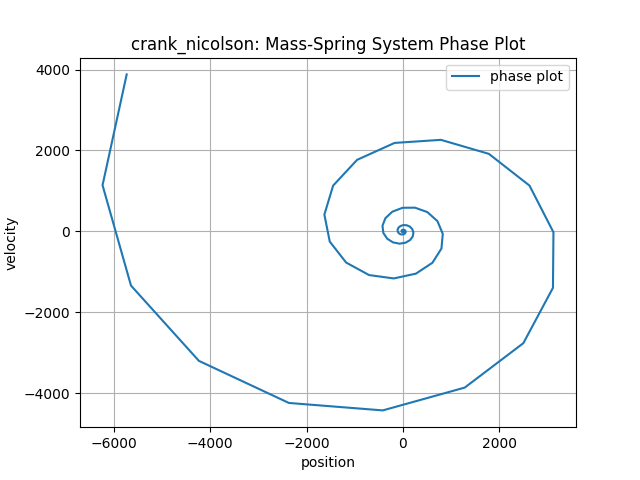
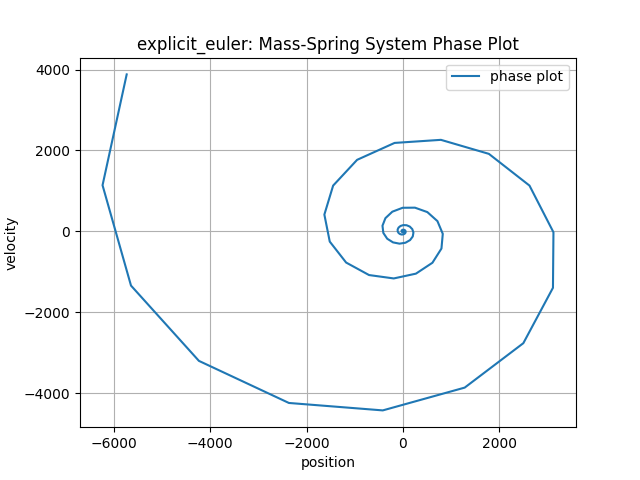
fixed plot title for explicit euler with larger endtimes

Changed region(s): [[0.2188, 0.0625, 0.8125, 0.125]]

diff --git a/demos/plotmassspring.py b/demos/plotmassspring.py
@@ -60,7 +60,7 @@ for endtime in explicit_euler_larger_endtimes:
     plt.plot(data[:,0], data[:,2], label='velocity')
     plt.xlabel('time')
     plt.ylabel('value')
-    plt.title(f'{method}: Mass-Spring System Time Evolution')
+    plt.title("explicit_euler: Mass-Spring System Time Evolution")
     plt.legend()
     plt.grid()
     plt.savefig(f"{folder}/explicit_euler_time_plot_endtime_{endtime}.png")
@@ -69,7 +69,7 @@ for endtime in explicit_euler_larger_endtimes:
     plt.plot(data[:,1], data[:,2], label='phase plot')
     plt.xlabel('position')
     plt.ylabel('velocity')
-    plt.title(f'{method}: Mass-Spring System Phase Plot')
+    plt.title("explicit_euler: Mass-Spring System Phase Plot")
     plt.legend()
     plt.grid()
     plt.savefig(f"{folder}/explicit_euler_phase_plot_endtime_{endtime}.png")
